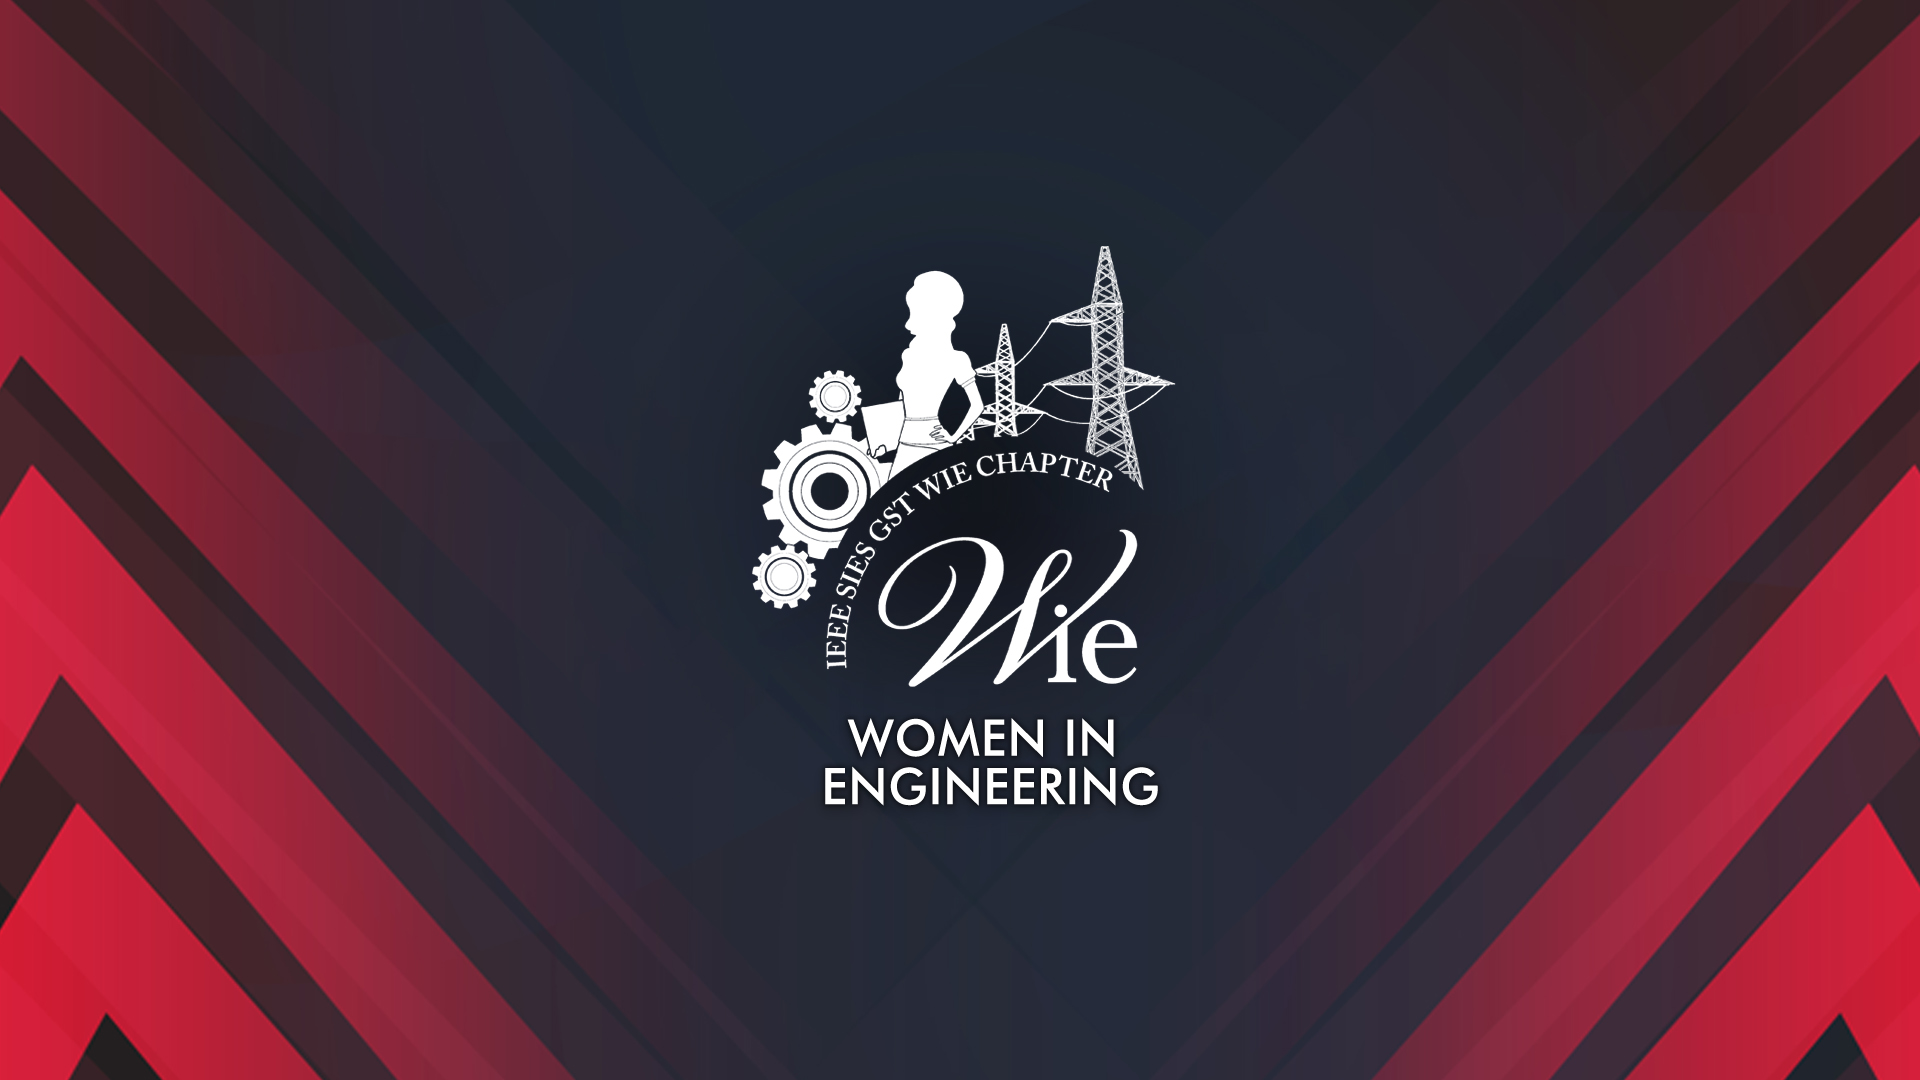
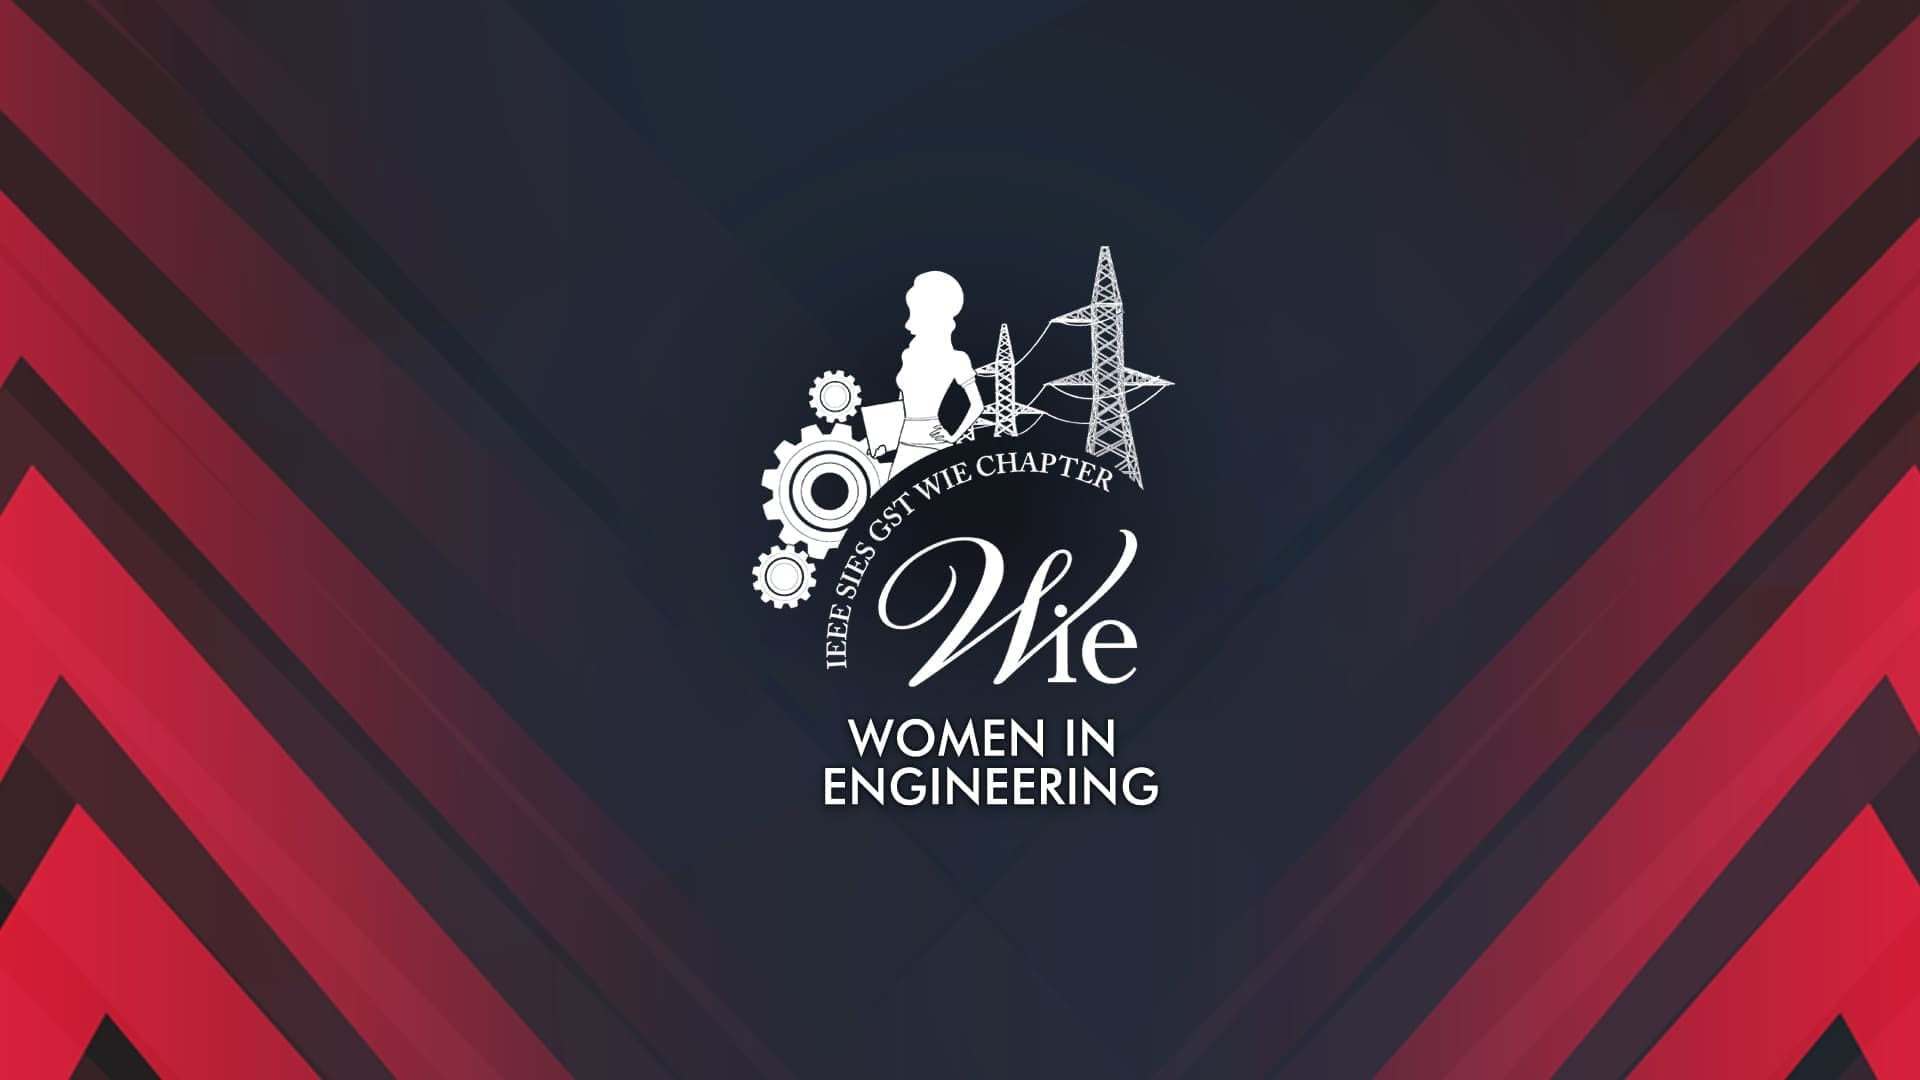
updated images

diff --git a/gallery.html b/gallery.html
@@ -157,7 +157,7 @@ function googleTranslateElementInit() {
             <div class="row news-grids mt-md-5 mt-4 text-center">
 
                 <div class="col-md-4 gal-img" id="g18">
-                    <a href="#gal21"><div class="overlay"></div><div class="overlay2">Click for more info!</div><img src="images/2021updates/techopedia9.0.PNG" alt="Presell" class="img-fluid">Techopedia 9.0 </a>
+                    <a href="#gal21"><div class="overlay"></div><div class="overlay2">Click for more info!</div><img src="images/2021updates/techopedia9.0gallery.png" alt="Presell" class="img-fluid">Techopedia 9.0 </a>
                 </div>
                 <div class="col-md-4 gal-img" id="g18">
                     <a href="#gal20"><div class="overlay"></div><div class="overlay2">Click for more info!</div><img src="images/2021updates/launchCS.png" alt="Presell" class="img-fluid">CS Launch</a>
@@ -250,7 +250,7 @@ function googleTranslateElementInit() {
     <!-- popup-->
     <div id="gal21" class="pop-overlay">
         <div class="popup">
-            <img src="images/2021updates/techopedia9.0.PNG" alt="Popup Image" class="img-fluid" />
+            <img src="images/2021updates/techopedia9.0gallery.png" alt="Popup Image" class="img-fluid" />
             <p class="mt-4">IEEE SIESGST organized the 9th edition of Techopedia.</p>
             <a class="close" href="#g21">&times;</a>
         </div>

diff --git a/achievements.html b/achievements.html
@@ -222,7 +222,13 @@ function googleTranslateElementInit() {
         <div class="row">
           <div class="col-lg-7 col-md-6 collection-w3layouts">
             <h4> Techopedia 9.0</h4>
-            <p class="mt-2">IEEE SIESGST organized the 9th edition of Techopedia – A national level technical festival virtually for the first time ever due to the pandemic situation.</p>
+            <p class="mt-2">IEEE SIESGST organized the 9th edition of Techopedia – A national level technical festival virtually for the first time ever due to the pandemic situation.
+            The four events conducted were:-<br>
+            Squabble (A national level debate competition)<br>
+            Inquisitive (A national level quiz competition)<br>
+            TechForage( A virtual technical treasure hunt)<br>
+            Technopreneur ( an event in collaboration with EDC SIES GST)
+            </p>
             <div class="view-buttn mt-lg-4 mt-3">
             </div>
           </div>
